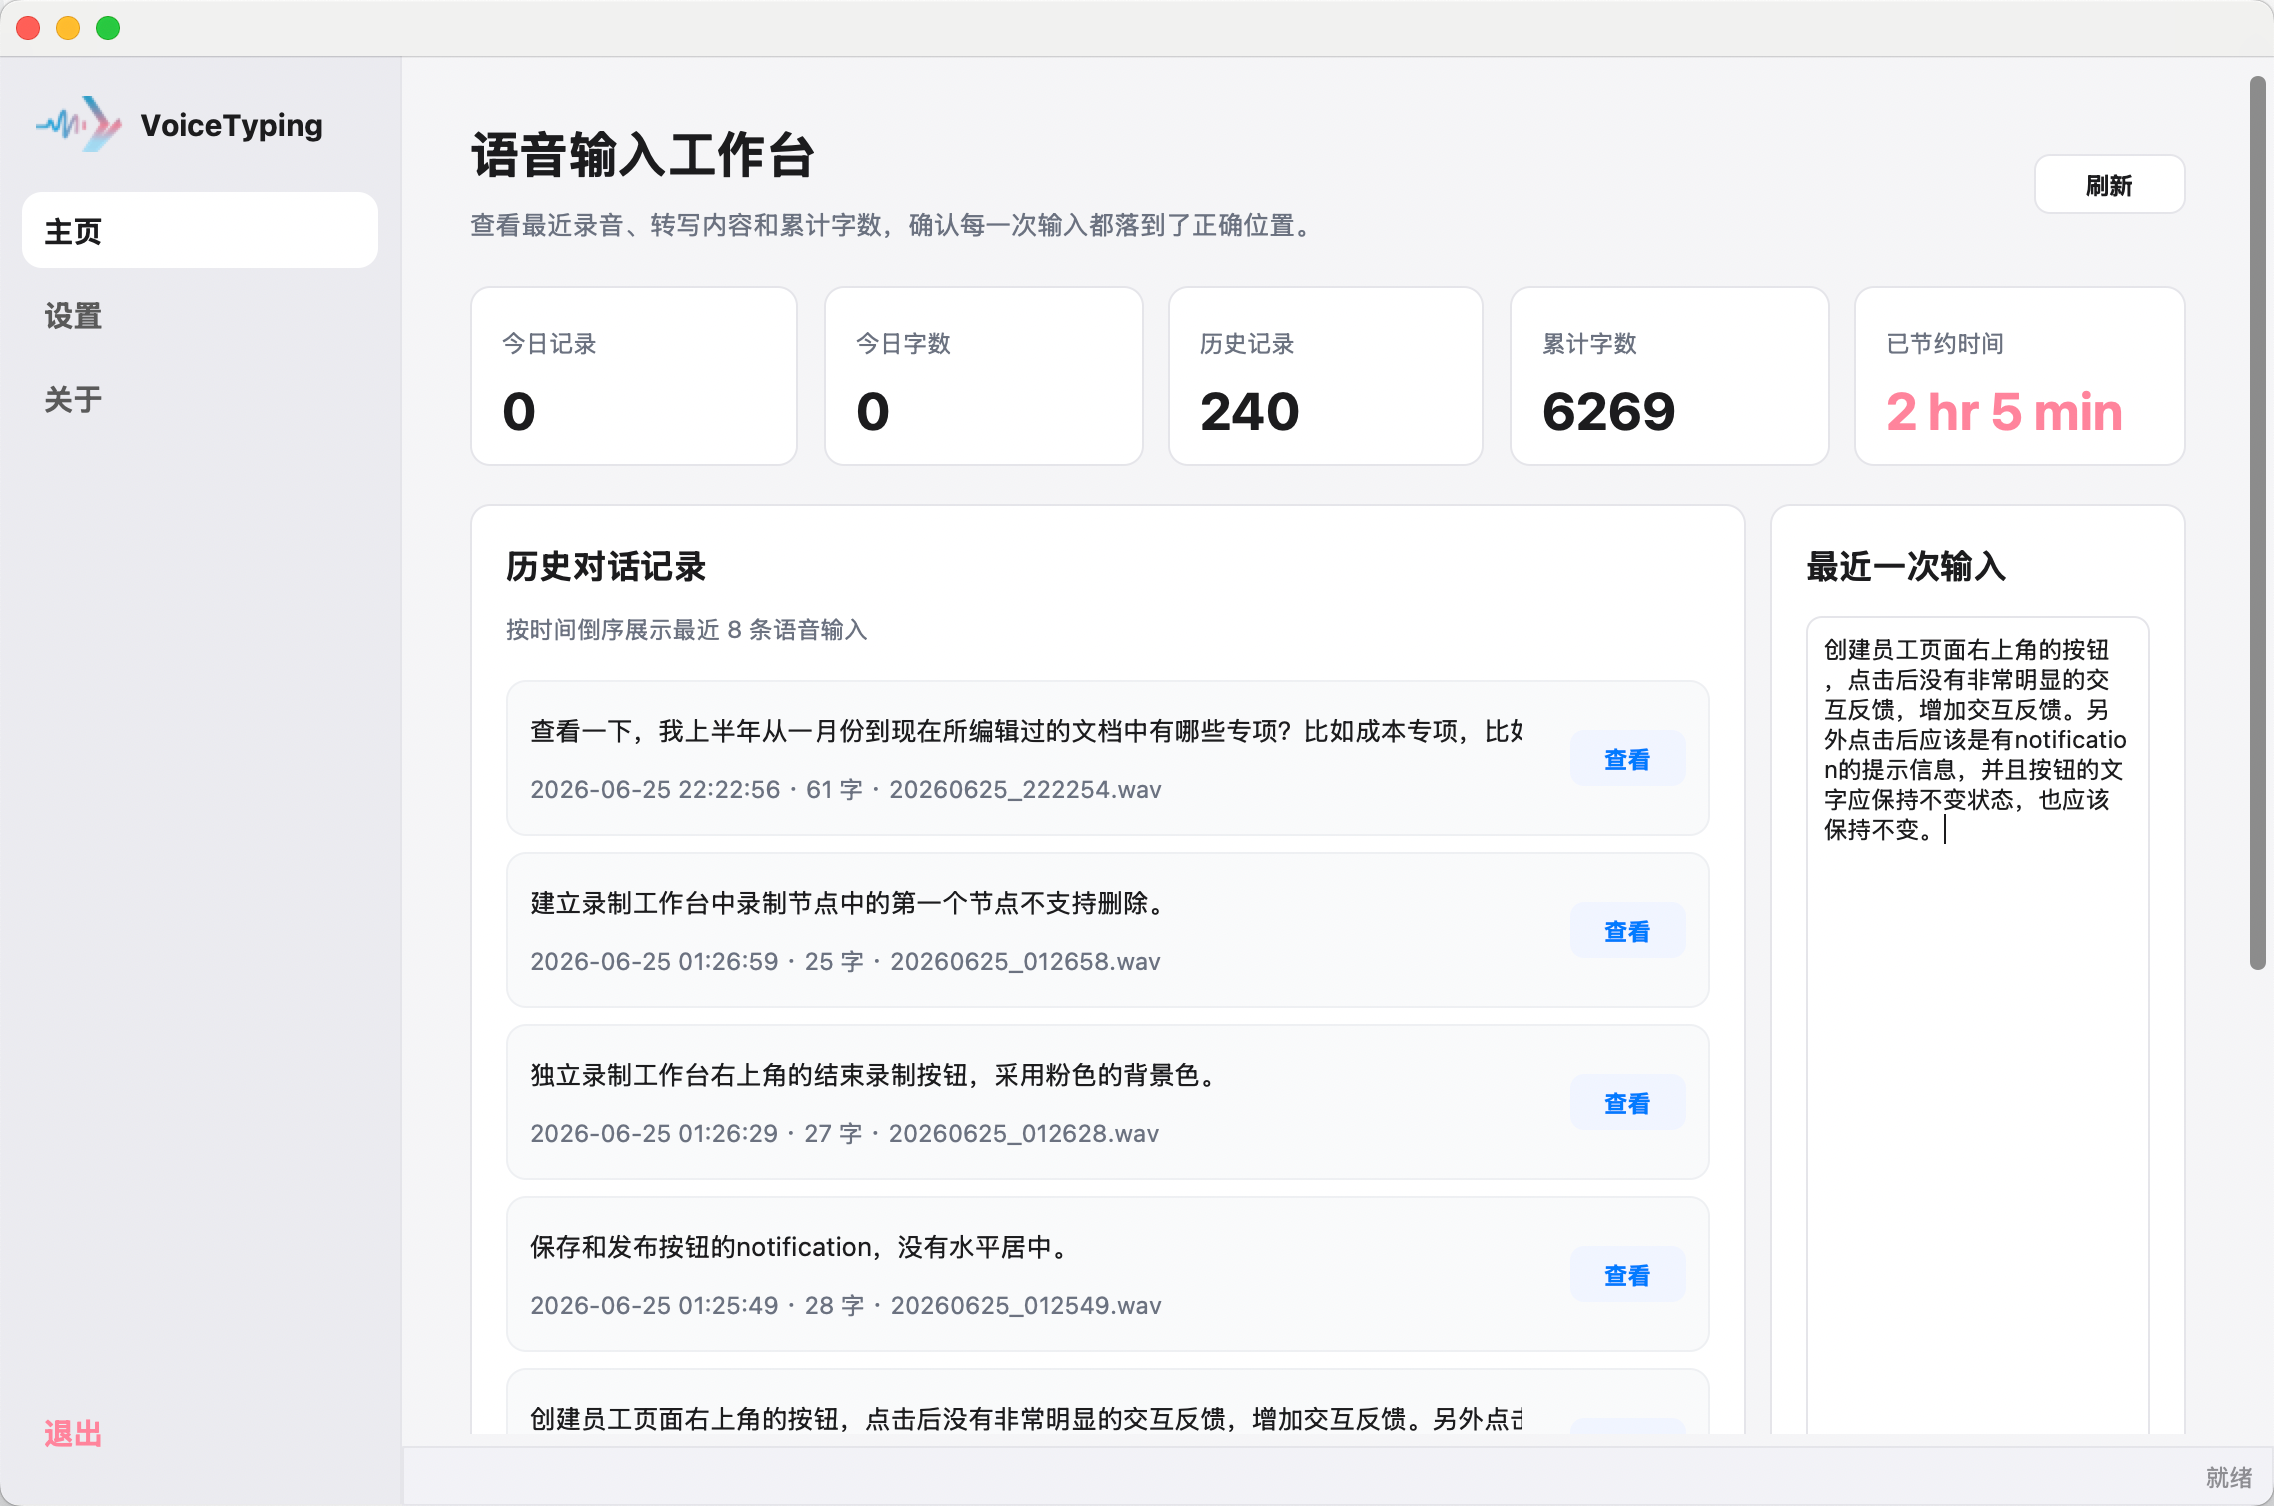
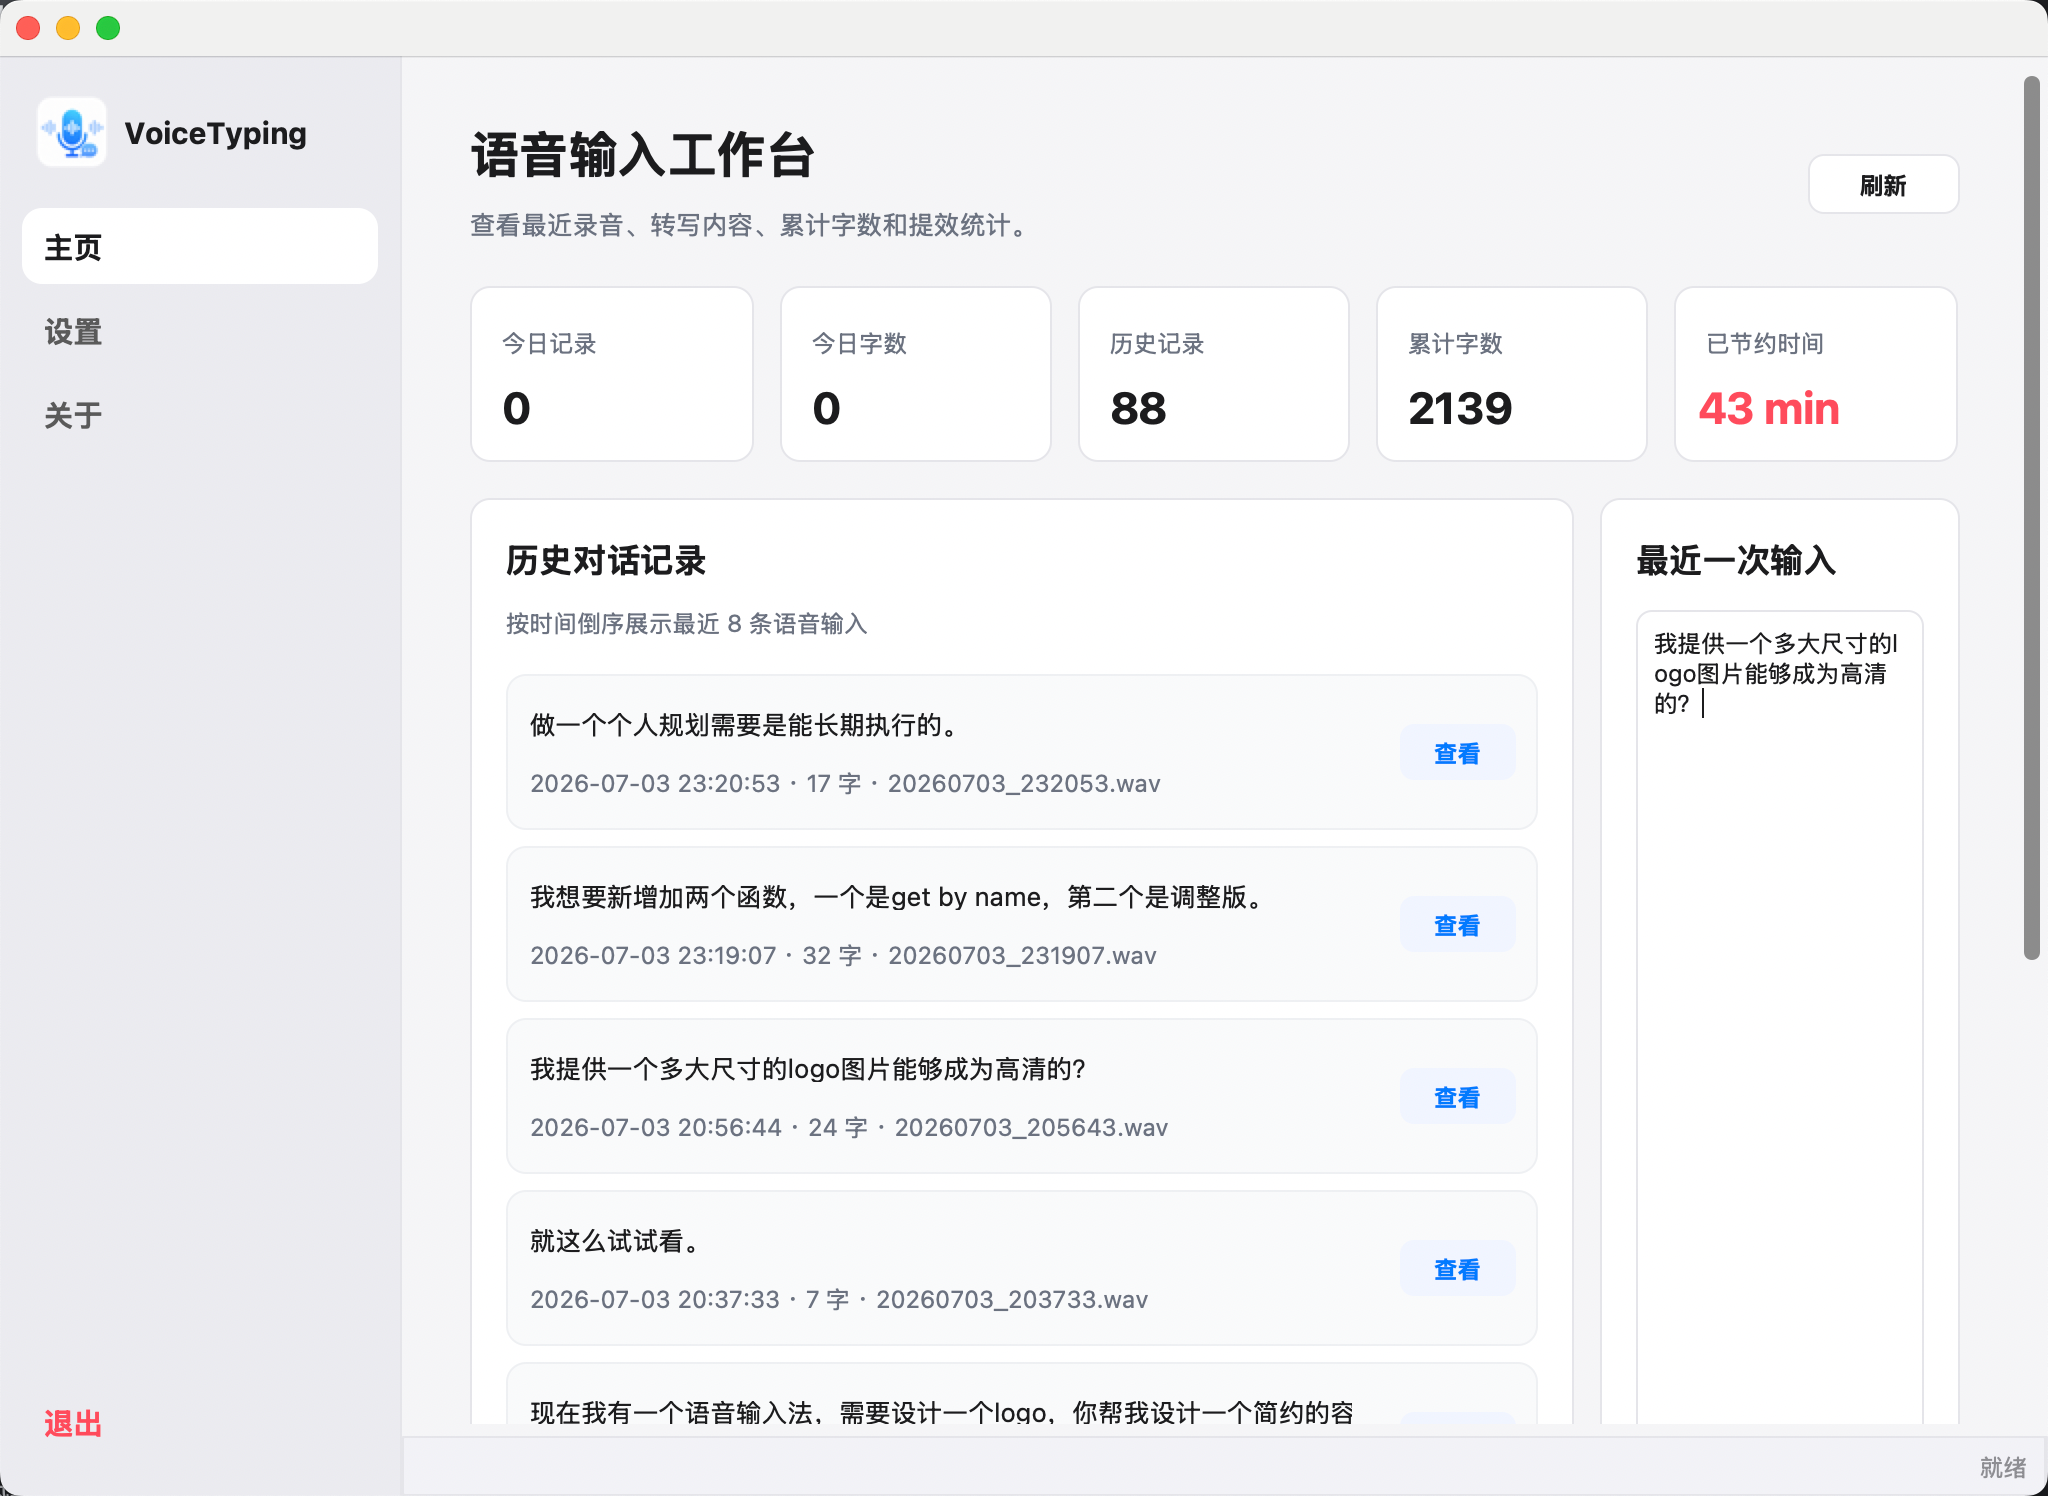
更新readme

diff --git a/README.md b/README.md
@@ -6,6 +6,10 @@ MyVoiceTyping 的目标很简单：让你在写文档、记需求、回消息、
 
 它也可以作为 Typless 的本地化平替工具使用。默认能力全部在本机完成，不依赖云端模型，不上传音频和文本，更适合重视个人数据保护、隐私安全和合规要求的工作场景。
 
+MyVoiceTyping is a local-first voice typing app for macOS. It helps you write documents, capture ideas, reply to messages, and produce longer text with less typing. In many everyday scenarios, speaking is faster than typing and closer to the natural flow of thought.
+
+It can also be used as a local alternative to Typless. By default, speech recognition, punctuation restoration, and lightweight text polishing all run on your Mac. Your audio and text are not sent to cloud models, making it better suited for privacy-conscious personal and workplace use.
+
 ![MyVoiceTyping dashboard](docs/img/myvoicetyping-dashboard.png)
 
 ## Downloads / Releases